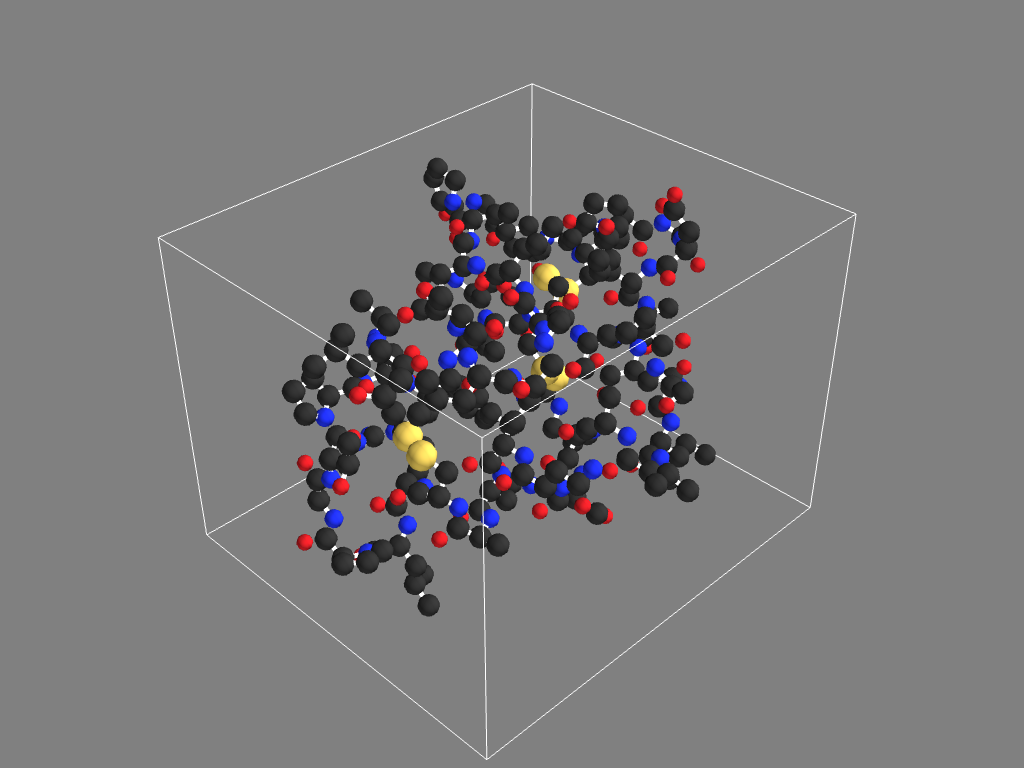
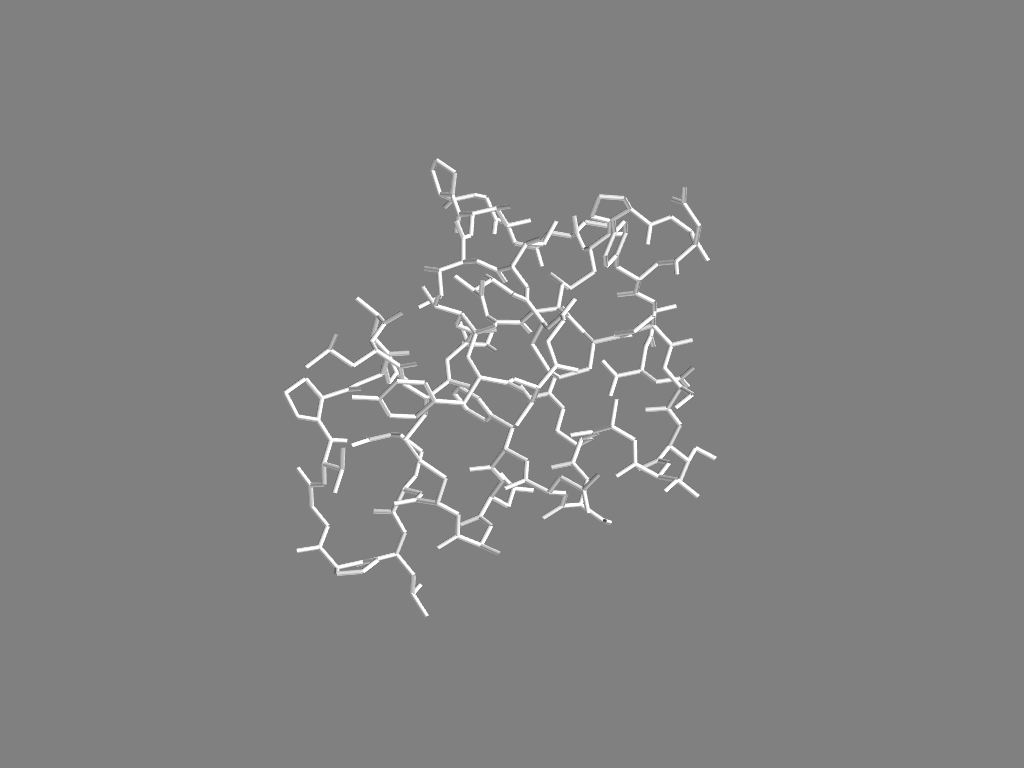
Small changes

diff --git a/md.py b/md.py
@@ -1,0 +1,30 @@
+import MDAnalysis as mda
+from MDAnalysis.tests.datafiles import PSF, DCD, GRO, XTC
+from provis.utils.atminfo import import_atm_size_info
+
+print(mda.__version__)
+my_univ = mda.Universe("data/2fd7.mol2")
+print(my_univ)
+
+print(my_univ.atoms.bonds)
+for bond in my_univ.atoms.bonds:
+    for atom in bond:
+        print(atom.position)
+
+# print(my_univ.trajectory[0])
+
+size, col ,vw = import_atm_size_info(1)
+# print(vw)
+vw["O.3"] = vw["O"] 
+vw["N.3"] = vw["N"]
+vw["S.3"] = vw["S"]
+vw["C.ar"] = vw["C"]
+vw["N.pl3"] = vw["N"]
+vw["C.2"] = vw["C"]
+vw["N.am"] = vw["N"]
+vw["C.cat"] = vw["C"]
+vw["C.3"] = vw["C"]
+vw["O.2"] = vw["O"]
+vw["O.co2"] = vw["O"]
+bonds = my_univ.atoms.guess_bonds(vdwradii=vw)
+print(bonds)

diff --git a/main.py b/main.py
@@ -15,20 +15,20 @@ def main():
     
     fc = FileConverter(name, density, solvent, bash)
     
-#    ## plot stick point
-#    sp = StickPoint(name)
+    ## plot stick point
+    sp = StickPoint(name)
 #    sp.plot_atoms()
-#    sp.plot_bonds()
+    sp.plot_bonds()
 #    sp.plot_vw()
 #    sp.plot_stick_point()
 #    r = Residue(1)
 #    sp.plot(atoms=1, box=1, bonds=1, vw=0, residues=0, res=0)
 #
 
-    ## plot surface
-    s = Surface(name)
-    s.plot_msms_surface(dens=density)
-    s.plot_surface()
+    # ## plot surface
+    # s = Surface(name)
+    # s.plot_msms_surface(dens=density)
+    # s.plot_surface()
 
 if __name__ == "__main__":
     main()

diff --git a/provis/src/data_handler.py b/provis/src/data_handler.py
@@ -285,8 +285,10 @@ class DataHandler:
             
             my_coord = my.values.tolist()
             c_coord = c.values.tolist()
-            if bonds_in.iloc[i]['bond_type'] == '1':
-                line = pv.Line(my_coord, c_coord, resolution=5)
+            # if bonds_in.iloc[i]['bond_type'] == '1':
+            line = pv.Line(my_coord, c_coord, resolution=5)
+            # elif bonds_in.iloc[i]['bond_type'] != '1':
+            #     line = pv.Text3D('||')
             bonds.append(line)
         
         return bonds

diff --git a/provis/utils/msms_caller.py b/provis/utils/msms_caller.py
@@ -4,9 +4,9 @@ import os.path
 
 def msms_script(name, dens):
     """
-    Run the msms script for given filename and density
-    Works on both linux and windows
-    (could easily be extended with other parameters)
+    Run the msms script for given filename and density.
+    Can work on all operating systems if you have msms.exe binary installed.
+    (could easily be extended with other parameters for binary, currently only dens)
     
     :param name: name - Name of file
     :param type: str

diff --git a/provis/src/stick_point.py b/provis/src/stick_point.py
@@ -141,7 +141,7 @@ class StickPoint:
         # adding the bonds one at a time
         if bonds:
             for b in self._bonds:
-                pl.add_mesh(b, color='w', line_width=5)
+                pl.add_mesh(b, color='w', line_width=5, render_lines_as_tubes=True)
                 # TODO: figure out why  render_lines_as_tubes=True, crashes
         # adding the spheres (by residue) one at a time
         # only executes if residue information provided

diff --git a/provis/utils/pdb_to_xyzr_caller.py b/provis/utils/pdb_to_xyzr_caller.py
@@ -3,8 +3,8 @@ import platform
 
 def pdb_to_xyzr_script(name, solv, bash=0):
     """
-    Run the pdb_to_xyzr script for given filename
-    Works on both linux and windows
+    Run the pdb_to_xyzr script for given filename.
+    Works on all operating systems, as it is a python script.
     (could easily be extended with other parameters)
     
     :param name: name - Name of file
